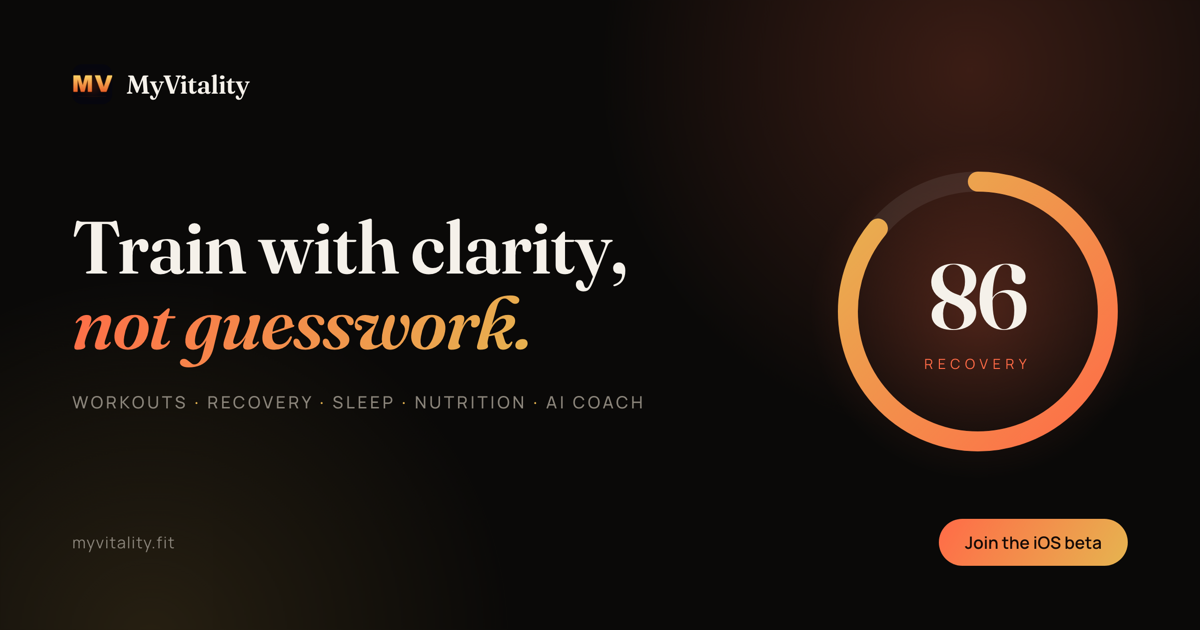
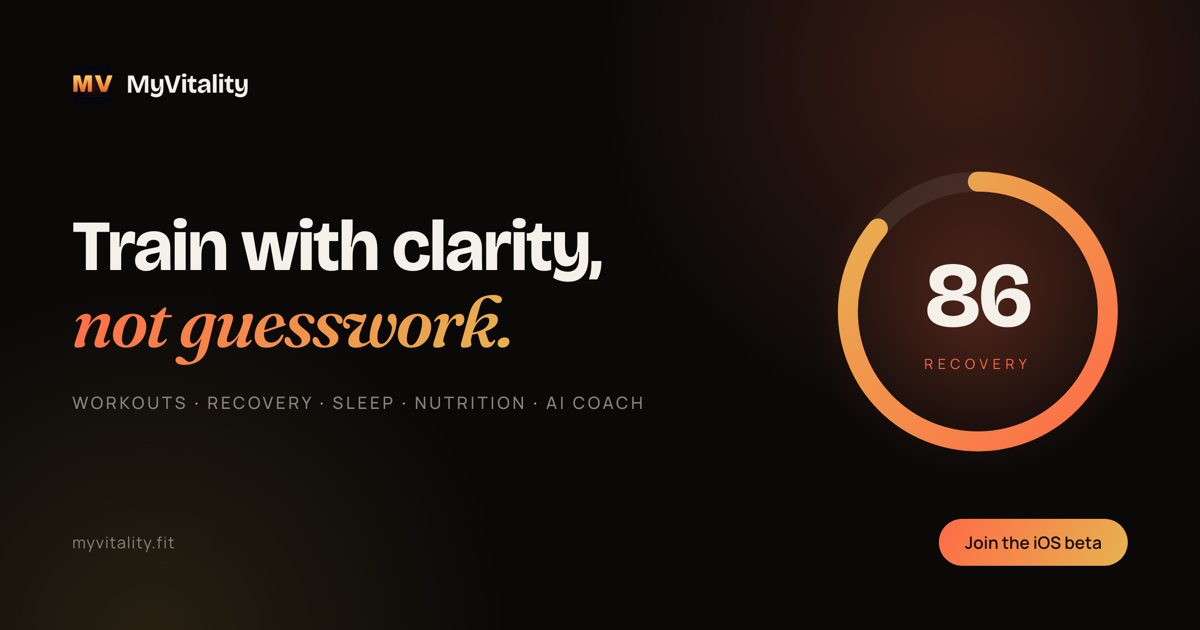
Regenerate og-image with Bricolage Grotesque type system

diff --git a/assets/og-template.html b/assets/og-template.html
@@ -6,7 +6,7 @@
 <head>
 <meta charset="UTF-8">
 <style>
-  @import url('https://fonts.googleapis.com/css2?family=Fraunces:ital,opsz,wght@0,9..144,450..650;1,9..144,450..650&family=Manrope:wght@400;500;600;700&display=swap');
+  @import url('https://fonts.googleapis.com/css2?family=Bricolage+Grotesque:opsz,wght@12..96,400..800&family=Fraunces:ital,opsz,wght@1,9..144,450..650&family=Manrope:wght@400;500;600;700&display=swap');
   * { margin: 0; padding: 0; box-sizing: border-box; }
   html, body { width: 1200px; height: 630px; overflow: hidden; }
   body {
@@ -19,12 +19,12 @@
     background: radial-gradient(circle, rgba(230,180,80,0.13) 0%, transparent 66%); }
   .hairline { position: absolute; left: 72px; right: 72px; top: 118px; height: 1px; background: rgba(255,255,255,0.08); }
   .wrap { position: absolute; inset: 0; padding: 64px 72px; display: flex; flex-direction: column; }
-  .brand { display: flex; align-items: center; gap: 14px; font-family: "Fraunces"; font-size: 26px; font-weight: 600; letter-spacing: -0.02em; }
+  .brand { display: flex; align-items: center; gap: 14px; font-family: "Bricolage Grotesque"; font-size: 26px; font-weight: 700; letter-spacing: -0.02em; }
   .brand img { width: 40px; height: 40px; border-radius: 10px; }
   .main { flex: 1; display: flex; align-items: center; gap: 60px; }
   .copy { flex: 1; }
-  h1 { font-family: "Fraunces"; font-size: 74px; font-weight: 600; line-height: 1.02; letter-spacing: -0.016em; }
-  h1 .grad { background: linear-gradient(120deg, #FF6B47, #E6B450); -webkit-background-clip: text; -webkit-text-fill-color: transparent; font-style: italic; padding-right: .05em; }
+  h1 { font-family: "Bricolage Grotesque"; font-size: 72px; font-weight: 750; line-height: 1.04; letter-spacing: -0.025em; }
+  h1 .grad { background: linear-gradient(120deg, #FF6B47, #E6B450); -webkit-background-clip: text; -webkit-text-fill-color: transparent; font-family: "Fraunces"; font-weight: 580; font-style: italic; padding-right: .05em; }
   .sub { margin-top: 30px; font-family: "Manrope", sans-serif; font-size: 17px; font-weight: 500;
     letter-spacing: 0.16em; color: #8A847A; text-transform: uppercase; }
   .sub b { color: #E6B450; font-weight: 500; }
@@ -36,7 +36,7 @@
   .ring-prog { fill: none; stroke: url(#g); stroke-width: 16; stroke-linecap: round;
     stroke-dasharray: 653.45; stroke-dashoffset: 91.5; }
   .ring-center { position: absolute; inset: 0; display: flex; flex-direction: column; align-items: center; justify-content: center; }
-  .ring-num { font-family: "Fraunces"; font-size: 92px; font-weight: 600; letter-spacing: -0.02em; line-height: 1; }
+  .ring-num { font-family: "Bricolage Grotesque"; font-size: 92px; font-weight: 720; letter-spacing: -0.025em; line-height: 1; }
   .ring-cap { font-family: "Manrope", sans-serif; font-size: 14px; letter-spacing: 0.34em; color: #FF6B47; margin-top: 12px; }
   .foot { display: flex; align-items: center; justify-content: space-between;
     font-family: "Manrope", sans-serif; font-size: 16px; letter-spacing: 0.06em; color: #8A847A; }
